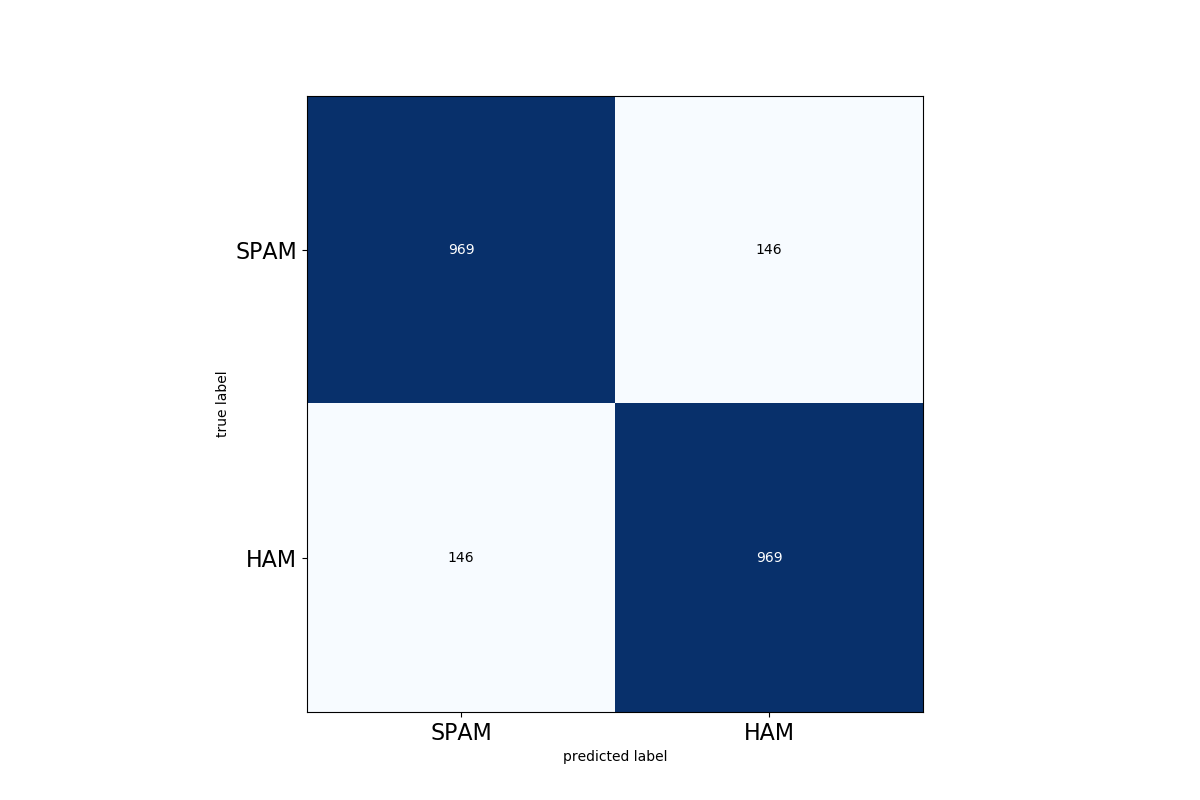
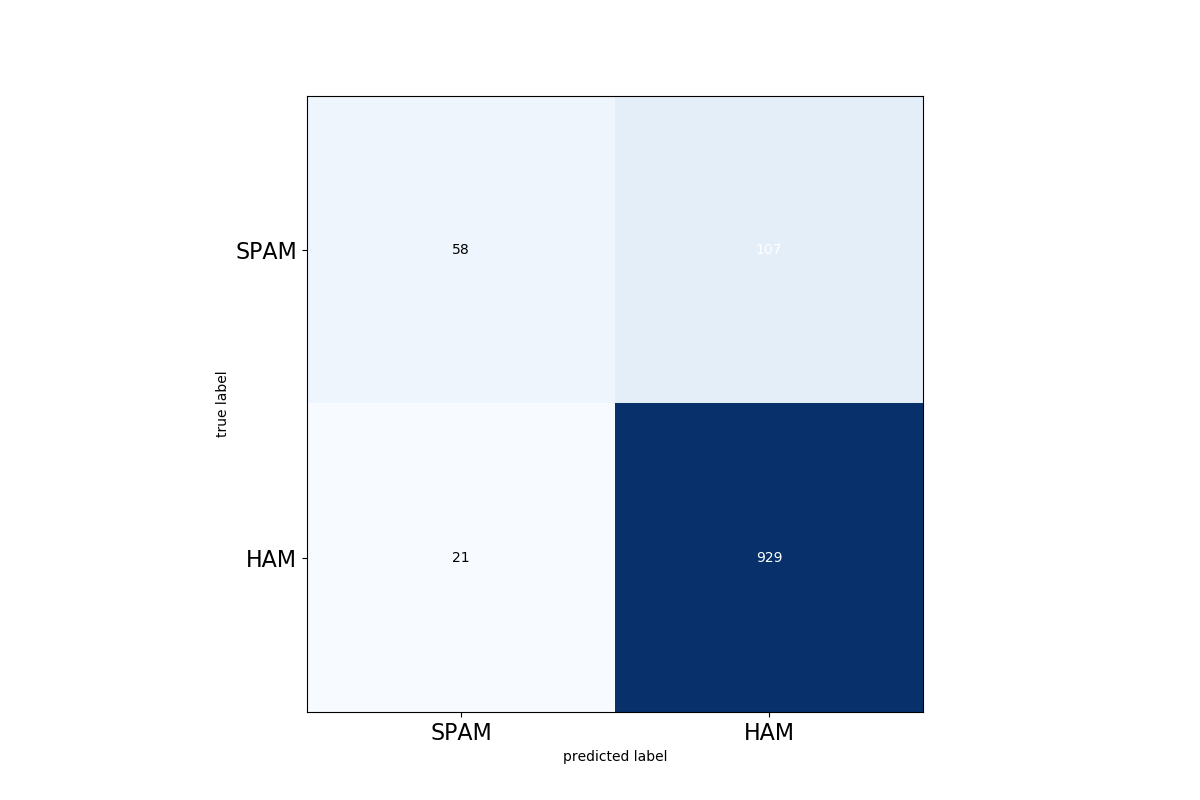
Sms confusion fixed

Changed region(s): [[0.2467, 0.0938, 0.5242, 0.5312], [0.37, 0.6875, 0.4008, 0.7188]]

diff --git a/sms/spam_detector.py b/sms/spam_detector.py
@@ -20,11 +20,6 @@ def train():
     test_X = np.load('dataset/processed/test_x.npy')
     test_Y = np.load('dataset/processed/test_y.npy')
 
-    print(X.shape)
-    print(Y.shape)
-    print(test_X.shape)
-    print(test_Y.shape)
-
     dropout_rate = 0.5
 
     input_shape = (MAXLEN,)
@@ -57,12 +52,11 @@ def train():
     )
     model.summary()
 
-    print(Y)
-
     history = model.fit(X, Y,
                         batch_size=BATCH_SIZE,
                         epochs=EPOCHS,
-                        validation_data=(test_X, test_Y)
+                        validation_data=(test_X, test_Y),
+                        verbose=2
                         )
 
     acc = history.history['accuracy']
@@ -96,24 +90,21 @@ def plot(model):
     test_Y = np.load('dataset/processed/test_y.npy')
 
     Y_pred = model.predict(np.array(test_X))
-    y_pred = np.around(Y_pred, 2)  # We divide because it is multilabel
+    y_pred = np.around(Y_pred)
 
     cm = multilabel_confusion_matrix(test_Y, y_pred)
     plt.figure()
 
-    plot_confusion_matrix(cm[0] + cm[1], figsize=(12, 8), hide_ticks=True)
+    plot_confusion_matrix(cm[0], figsize=(12, 8), hide_ticks=True)
     plt.xticks(range(2), ['SPAM', 'HAM'], fontsize=16)
     plt.yticks(range(2), ['SPAM', 'HAM'], fontsize=16)
-    # st.map(plt)
     plt.savefig("matrix.png")
     plt.show()
 
 
 if __name__ == '__main__':
     model = train()
-
     model.save('../streamlit_web/models/sms.h5')
     model = load_model("../streamlit_web/models/sms.h5",
                        custom_objects={"softmax_v2": tf.nn.softmax})
-
     plot(model)
